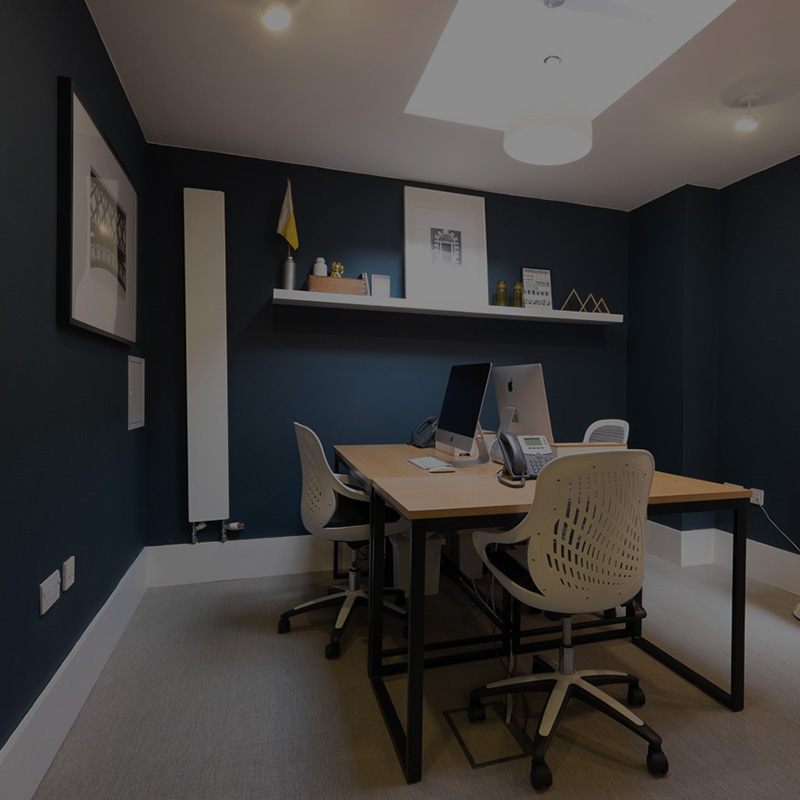
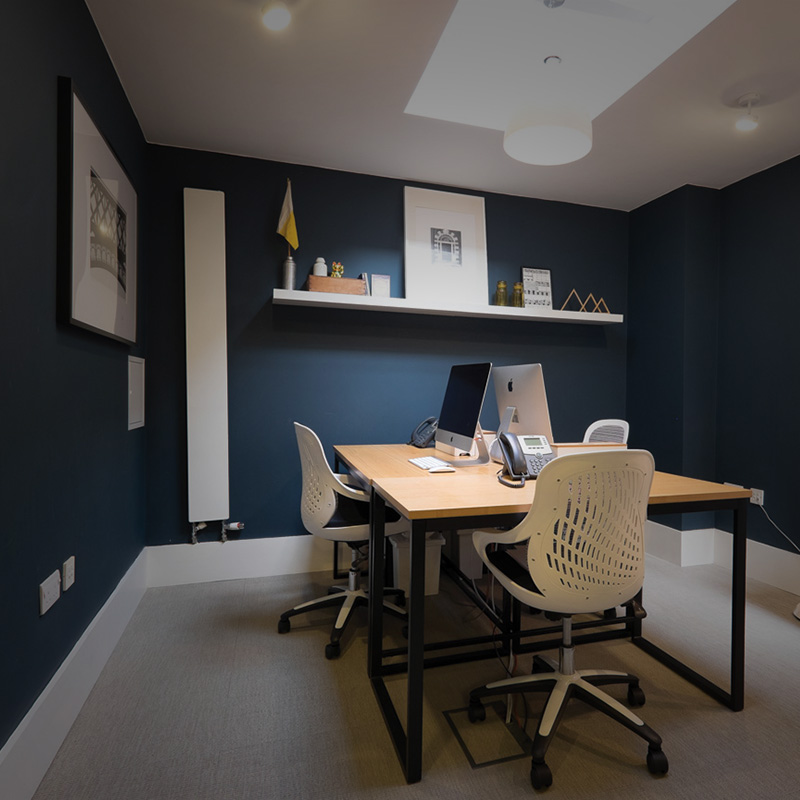
Add files via upload

Changed region(s): [[0.1875, 0.3438, 0.9062, 0.7812], [0.3438, 0.2188, 0.7812, 0.4062], [0.6875, 0.8125, 0.75, 0.875]]

diff --git a/a4studio/css/anime.css b/a4studio/css/anime.css
@@ -371,6 +371,7 @@
 		0%{ left: 100%;}
 		100%{ left: -120px;}
 	}
+/*  棱形动效  */
 .to_m, .to_m1, .to_m2, .to_m3, .to_m4, .to_m5{ position: absolute;}
 .to_m{
 	left: 5%;
@@ -379,91 +380,110 @@
 }
 	@-webkit-keyframes t_m
 	{
-		0%{ top: 95%;}
-		100%{ top: 5%;}
+		0%{ top: 95%; -webkit-opacity: 0;}
+		10%{ -webkit-opacity: 1;}
+		100%{ top: 5%; -webkit-opacity: 1;}
 	}
 	@keyframes t_m
 	{
-		0%{ top: 95%;}
-		100%{ top: 5%;}
+		0%{ top: 95%; opacity: 0;}
+		10%{ opacity: 1;}
+		100%{ top: 5%; opacity: 1;}
 	}
 
 .to_m1{
 	left: 30%;
+	top: -5%;
 	-webkit-animation: t_m1 30s linear infinite;
 	animation: t_m1 30s linear infinite;
 }
 	@-webkit-keyframes t_m1
 	{
-		0%{ top: 80%;}
-		100%{ top: 20%;}
+		0%{ top: 80%; -webkit-opacity: 0;}
+		10%{ -webkit-opacity: 1;}
+		100%{ top: 20%; -webkit-opacity: 1;}
 	}
 	@keyframes t_m1
 	{
-		0%{ top: 80%;}
-		100%{ top: 20%;}
+		0%{ top: 80%; opacity: 0;}
+		10%{ opacity: 1;}
+		100%{ top: 20%; opacity: 1;}
 	}
 .to_m2{
 	left: 50%;
+	top: -5%;
 	-webkit-animation: t_m2 35s linear infinite;
 	animation: t_m2 35s linear infinite;
+	-webkit-animation-delay: 3s;
 	animation-delay: 3s;
 }
 	@-webkit-keyframes t_m2
 	{
-		0%{ top: 90%;}
-		100%{ top: 25%;}
+		0%{ top: 90%; -webkit-opacity: 0;}
+		10%{ -webkit-opacity: 1;}
+		100%{ top: 25%; -webkit-opacity: 1;}
 	}
 	@keyframes t_m2
 	{
-		0%{ top: 90%;}
-		100%{ top: 25%;}
+		0%{ top: 90%; opacity: 0;}
+		10%{ opacity: 1;}
+		100%{ top: 25%; opacity: 1;}
 	}
 .to_m3{
 	left: 75%;
+	top: -5%;
 	-webkit-animation: t_m3 20s linear infinite;
 	animation: t_m3 20s linear infinite;
 }
 	@-webkit-keyframes t_m3
 	{
-		0%{ top: 70%;}
-		100%{ top: 30%;}
+		0%{ top: 70%; -webkit-opacity: 0;}
+		10%{ -webkit-opacity: 1;}
+		100%{ top: 30%; -webkit-opacity: 1;}
 	}
 	@keyframes t_m3
 	{
-		0%{ top: 70%;}
-		100%{ top: 30%;}
+		0%{ top: 70%; opacity: 0;}
+		10%{ opacity: 1;}
+		100%{ top: 30%; opacity: 1;}
 	}
 .to_m4{
 	left: 86%;
+	top: -5%;
 	-webkit-animation: t_m4 25s linear infinite;
 	animation: t_m4 25s linear infinite;
 }
 	@-webkit-keyframes t_m4
 	{
-		0%{ top: 100%;}
-		100%{ top: 40%;}
+		0%{ top: 100%; -webkit-opacity: 0;}
+		10%{ -webkit-opacity: 1;}
+		100%{ top: 35%; -webkit-opacity: 1;}
 	}
 	@keyframes t_m4
 	{
-		0%{ top: 100%;}
-		100%{ top: 40%;}
+		0%{ top: 100%; opacity: 0;}
+		10%{ opacity: 1;}
+		100%{ top: 35%; opacity: 1;}
 	}
 .to_m5{
 	left: 28%;
+	top: -5%;
 	-webkit-animation: t_m5 35s linear infinite;
 	animation: t_m5 35s linear infinite;
+	-webkit-animation-delay: 6s;
 	animation-delay: 6s;
 }
 	@-webkit-keyframes t_m5
 	{
-		0%{ top: 100%;}
-		100%{ top: 45%;}
+		0%{ top: 100%; -webkit-opacity: 0;}
+		10%{ -webkit-opacity: 1;}
+		100%{ top: 40%; -webkit-opacity: 1;}
 	}
 	@keyframes t_m5
 	{
-		0%{ top: 100%;}
-		100%{ top: 45%;}
+		0%{ top: 100%; opacity: 0;}
+		10%{ opacity: 1;}
+		100%{ top: 40%; opacity: 1;}
 	}
 	
 .to_rombo

diff --git a/a4studio/index.html b/a4studio/index.html
@@ -6,7 +6,6 @@
 <meta name="copyright" content="A4 STUDIO"/>
 <meta name="keywords" content="A4 STUDIO,A4工作室,设计,广告,品牌">
 <meta name="description" content="A4 STUDIO - 专注创意设计与开发">
-
 <meta http-equiv="Content-Type" content="text/html; charset=utf-8"/>
 <meta name="viewport" content="width=device-width,initial-scale=1.0,maximum-scale=1.0,minimum-scale=1.0,user-scalable=0"/>
 <link rel="icon" href="./css/img/a4studio.ico" mce_href="./css/img/a4studio.ico" type="image/x-icon"/>  
@@ -18,6 +17,13 @@
 <body>
 <div class="bg_layer">
 	<div class="bg_layer_img"></div>
+	<!-- 棱形渐升特效 -->
+	<div class="to_m"><div class="to_rombo"></div></div>
+	<div class="to_m1"><div class="to_rombo1"></div></div>
+	<div class="to_m2"><div class="to_rombo"></div></div>
+	<div class="to_m3"><div class="to_rombo2"></div></div>
+	<div class="to_m4"><div class="to_rombo"></div></div>
+	<div class="to_m5"><div class="to_rombo1"></div></div>
 </div>
 <div class="swiper-container">
 <div class="swiper-wrapper">
@@ -57,14 +63,6 @@
 	</div>
 	
 	<div class="swiper-slide p2">
-		<!-- 棱形渐升特效 -->
-		<div class="to_m"><div class="to_rombo"></div></div>
-		<div class="to_m1"><div class="to_rombo1"></div></div>
-		<div class="to_m2"><div class="to_rombo"></div></div>
-		<div class="to_m3"><div class="to_rombo2"></div></div>
-		<div class="to_m4"><div class="to_rombo"></div></div>
-		<div class="to_m5"><div class="to_rombo1"></div></div>
-		
 		<div class="d_box" style="width:60%;max-width:400px;">
 			<!-- 内容 -->
 			<img class="to_up contain" src="img/00.png" style="background:url('img/5.1.png') no-repeat center center;background-size:contain;"/>
@@ -146,17 +144,13 @@ if(window.DeviceOrientationEvent){
 	window.addEventListener('deviceorientation', function(event){
 		alpha = event.alpha, beta = event.beta, gamma = event.gamma;
 		
-		var orizontale, verticale;
+		if(beta>70){ beta=70;}
+		if(beta<0){ beta=0;}
+		if(gamma>30){ gamma=30;}
+		if(gamma<-30){ gamma=-30;}
 		
-		if(beta>75){ beta=75;}
-		if(beta<-5){ beta=-5;}
-		
-		if(gamma>45){ gamma=45;}
-		if(gamma<-45){ gamma=-45;}
-		
-		orizontale = gamma/1.5,
-		verticale = beta/2.5;
-		
+		var orizontale = gamma/1.25,
+			verticale = beta/2.9;
 		$(".bg_layer_img").css('transform','translateX('+orizontale+'%) translateY('+verticale+'%)');
 		
 	}, false);

diff --git a/a4studio/css/style.css b/a4studio/css/style.css
@@ -22,13 +22,16 @@ body{
 .bg_layer{ position: fixed; width: 100%; height: 100%;}
 .bg_layer_img{
 	position: relative;
-    left: -100%;
-    top: -75%;
-    width: 300%;
-    height: 200%;
+    width: 200%;
+    height: 150%;
+	left: -50%;
+    top: -35%;
     z-index: 0;
 	background:url('./img/bg.jpg') no-repeat center center;
 	background-size:cover;
+	-webkit-filter: blur(3px);
+	-moz-filter: blur(3px);
+	filter: blur(3px);
 }
 #top{
 	position: fixed;
@@ -93,13 +96,13 @@ body{
 }
 	@-webkit-keyframes t_contact
 	{
-		0%{ left: 100%;}
-		100%{ left: 0;}
+		0%{ height: 0;}
+		100%{ height: 6rem;}
 	}
 	@keyframes t_contact
 	{
-		0%{ left: 100%;}
-		100%{ left: 0;}
+		0%{ height: 0;}
+		100%{ height: 6rem;}
 	}
 .a4_copyright{
 	position: absolute;
